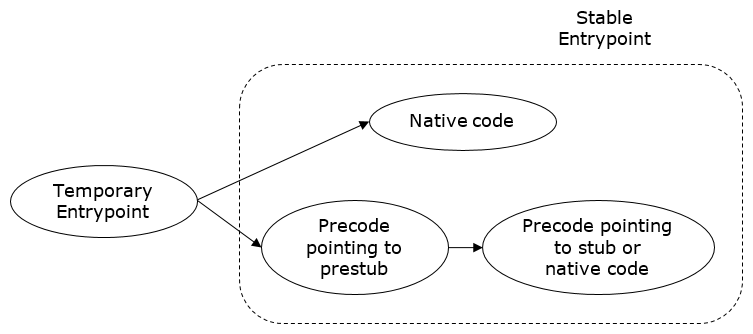
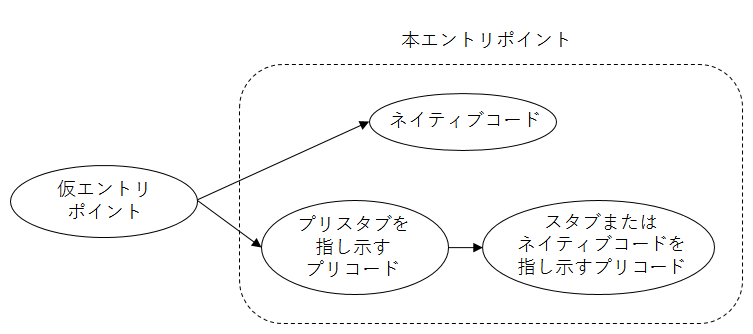
Translate method-descriptor.md.

diff --git a/botr/method-descriptor.md b/botr/method-descriptor.md
@@ -1,0 +1,348 @@
+メソッド記述子
+=================
+
+（これは https://github.com/dotnet/coreclr/blob/master/Documentation/botr/method-descriptor.md の日本語訳です。対象rev.は 09ad260）
+
+Author: Jan Kotas ([@jkotas](https://github.com/jkotas)) - 2006
+
+はじめに
+============
+
+MethodDesc（メソッド記述子、Method Descriptor）はマネージドメソッドの内部表現です。これによっていくつかの目的が達成されます。
+
+- 実行時に使用可能な一意なメソッドハンドルの提供。通常のメソッドでは、MethodDescは&lt;モジュール, メタデータトークン, インスタンシエーション&gt;の組に対する一意なハンドルです。
+- 頻繁に使用される情報（たとえば、メソッドが静的かどうか）を、毎回コストがかかるメタデータからの計算をしないようキャッシュする。
+- メソッドの実行時の状態（たとえば、そのメソッド用のコードが生成済みかどうか）のキャプチャ。
+- そのメソッドのエントリポイントの保持。
+
+設計上の目標と目標でないもの
+--------------------------
+
+### 目標
+
+**パフォーマンス：**MethodDescの設計はサイズを重視して最適化しています。すべてのメソッドについて、1つのMethodDescがあるためです。たとえば、現在の設計では、通常の非ジェネリックメソッドに対するMethodDescは8バイトです。
+
+### 目標でないもの
+
+**機能の豊富さ：**MethodDescはメソッドについての全ての情報をキャッシュしません。あまり使用されない情報（たとえば、メソッドシグネチャ）のためには、元になっているメタデータにアクセスしなければならないはずです。
+
+MethodDescの設計
+====================
+
+MethodDescの種類
+--------------------
+
+MethodDescには複数の種類があります：
+
+**IL**
+
+普通のILメソッドに使用されます。
+
+**Instantiated**
+
+ジェネリックインスタンシエーションを持つ、またはメソッドテーブルに事前アロケートされていない、あまり一般的ではないILメソッドに使用されます。
+
+**FCall**
+
+アンマネージコードで実装された内部メソッド。[MethodImplAttribute(MethodImplOptions.InternalCall)属性で修飾されたメソッド](mscorlib.md)、デリゲートのコンストラクター、そしてtlbimpのコンストラクターです。
+
+**NDirect**
+
+P/Invokeのメソッド。DllImport属性で修飾されたメソッドです。
+
+**EEImpl**
+
+ランタイムによって実装が提供される、デリゲートのメソッド（Invoke、BeginInvoke、EndInvoke）。[ECMA 335 Partition II - Delegates](https://github.com/dotnet/coreclr/blob/master/Documentation/project-docs/dotnet-standards.md)を参照してください。
+
+**Array**
+
+ランタイムによって実装が提供される、配列のメソッド（Get、Set、Address）。[ECMA Partition II – Arrays](https://github.com/dotnet/coreclr/blob/master/Documentation/project-docs/dotnet-standards.md)を参照してください。
+
+**ComInterop**
+
+COMインターフェイスのメソッド。非ジェネリックインターフェイスは既定でCOM相互運用に使用できるので、一般的に、この種類のMethodDescはすべてのインターフェイスメソッドに使用されます。
+
+**Dynamic**
+
+<!-- 訳注：原文ではLKGだがLCGのはず。Stub-as-ILはP/InvokeのILスタブ -->
+元になるメタデータなしで動的に作成されるメソッドです。ILスタブとLCG（Light-weight Code Generation）で生成されます。
+
+実装の代替案
+---------------------------
+
+仮想メソッドと継承は、C++でさまざまなMethodDescを実装する自然な方法と思われます。仮想メソッドでは各MethodDescにvtableポインタが追加されることになり、貴重なメモリ空間が大量に浪費されるでしょう。vtableポインタはx86で4バイトを占有します。その代わりに、仮想化は3ビットに収まるMethodDesc種別による分岐によって実装されます。例：
+
+	DWORD MethodDesc::GetAttrs()
+	{
+	    if (IsArray())
+	        return ((ArrayMethodDesc\*)this)->GetAttrs();
+
+	    if (IsDynamic())
+	        return ((DynamicMethodDesc\*)this)->GetAttrs();
+
+	    return GetMDImport()->GetMethodDefProps(GetMemberDef());
+	}
+
+メソッドスロット（method slot）
+------------
+
+それぞれのMethodDescはスロットを持ち、スロットにはメソッドのエントリポイントが含まれます。全てのメソッドについて、スロットとエントリポイントが存在しなければなりません。たとえ抽象メソッドのように決して実行されることのないメソッドであってもです。エントリポイントとMethodDescの間に1:1の対応付けがあることに依存している場所がランタイムの複数の場所にあるので、この関係性は不変です。
+
+スロットはMethodTableかMethodDesc自身のいずれかにあります。スロットの場所はMethodDescの`mdcHasNonVtableSlot`によって決定されます。
+
+スロットインデックスによる効率的なルックアップが必要なメソッド（たとえば仮想メソッドやジェネリック型のメソッド）については、スロットはMethodTableに保存されます。この場合にエントリポイントを高速にルックアップできるよう、MethodDescはそのスロットインデックスを含みます。
+
+そうでない場合、スロットはMethodDesc自身の一部です。この配置によってデータの局所性が改善され、ワーキングセットが節約されます。同様に、エディットアンドコンティニュー、ジェネリックメソッドのインスタンシエーション、[動的メソッド](https://github.com/dotnet/coreclr/blob/master/src/mscorlib/src/System/Reflection/Emit/DynamicMethod.cs)のように、動的に作成されるMethodDescについて、MethodTableにあらかじめスロットを割り当てておくことができない場合すらあります。
+
+MethodDescチャンク
+-----------------
+
+MethodDescは領域を節約するためにチャンクとして割り当てられます。複数のMethodDescは、同一のMethodTableや同一のメタデータトークンの上位ビットを持つ傾向にあります。MethodDescChunkは、複数のMethodDescの配列の前に、共通の情報を巻き取った形になります。MethodDescは、その配列内での自分自身のインデックスを持ちます。
+
+![図1](../images/methoddesc-fig1.png)
+
+図1 MethodDeskChunkとMethodTable
+
+デバッグ
+---------
+
+MethodDescのデバッグには、以下のSOSコマンドが役立ちます：
+
+- **DumpMD** - MethodDescの内容をダンプします：
+
+		!DumpMD 00912fd8
+		Method Name: My.Main()
+		Class: 009111ec
+		MethodTable: 00912fe8md
+		Token: 06000001
+		Module: 00912c14
+		IsJitted: yes
+		CodeAddr: 00ca0070
+
+- **IP2MD** - 指定されたコードアドレスに対するMethodDescを検索します：
+
+		!ip2md 00ca007c
+		MethodDesc: 00912fd8
+		Method Name: My.Main()
+		Class: 009111ec
+		MethodTable: 00912fe8md
+		Token: 06000001
+		Module: 00912c14
+		IsJitted: yes
+		CodeAddr: 00ca0070
+
+- **Name2EE** - 指定されたメソッド名に対するMethodDescを検索します：
+
+		!name2ee hello.exe My.Main
+		Module: 00912c14 (hello.exe)
+		Token: 0x06000001
+		MethodDesc: 00912fd8
+		Name: My.Main()
+		JITTED Code Address: 00ca0070
+
+- **Token2EE** - 指定されたトークンに対するMethodDescを検索します（複雑な名前を持つメソッドに対するMethodDescの検索に役立ちます）：
+
+		!token2ee hello.exe 0x06000001
+		Module: 00912c14 (hello.exe)
+		Token: 0x06000001
+		MethodDesc: 00912fd
+		8Name: My.Main()
+		JITTED Code Address: 00ca0070
+
+- **DumpMT** -MD - 指定されたMethodTableにある全てのMethodDescをダンプします：
+
+		!DumpMT -MD 0x00912fe8
+		...
+		MethodDesc Table
+		   Entry MethodDesc      JIT Name
+		79354bec   7913bd48   PreJIT System.Object.ToString()
+		793539c0   7913bd50   PreJIT System.Object.Equals(System.Object)
+		793539b0   7913bd68   PreJIT System.Object.GetHashCode()
+		7934a4c0   7913bd70   PreJIT System.Object.Finalize()
+		00ca0070   00912fd8      JIT My.Main()
+		0091303c   00912fe0     NONE My..ctor()
+
+デバッグビルドでは、MethodDescにメソッドの名前とシグネチャのフィールドがあります。これはランタイムの状態がひどく壊れていて、SOS拡張が動作しない場合のデバッグに役立ちます。
+
+プリコード（precode）
+=======
+
+プリコードは、仮エントリポイントの実装と、スタブに対する効率的なラッパーの実装に使用される小さなコード片です。プリコードはこれら2つのケース用のニッチなコードジェネレーターであり、可能な限り最も効率的なコードを生成します。理想的な世界であれば、ランタイムによって動的に生成される全てのネイティブコードはJITによって生成されることでしょう。ただし、これら2つのシナリオに固有の要件があり、そのようにすることはできません。基本的なx86のプリコードは次のようなものです：
+
+
+	mov eax,pMethodDesc // MethodDescをスクラッチレジスタに読み込む
+	jmp target          // ターゲットにジャンプする
+
+**効率的なスタブラッパー：**特定のメソッド（P/Invoke、デリゲート呼び出し、多次元配列のゲッターとセッターなど）は、一般的には手書きのアセンブリスタブとして、ランタイムによって提供されます。プリコードは複数の呼び出し元に対して同時対応するために、スタブの上に空間効率の良いラッパーを提供します。
+
+スタブのワーカーコードはプリコード片によってラップされます。このプリコード片は、MethodDescに対応付けることができ、さらにこのワーカーコードにジャンプするものです。このようにして、スタブのワーカーコードを複数のメソッドで共有できます。これは、P/Invokeのマーシャリングスタブを実装するために使用される重要な最適化です。さらに、これはMethodDescとエントリポイントの間に1:1の対応付けを作成し、これにより単純かつ効率的な低レベルシステムを達成します。
+
+**仮エントリポイント（temporary entry points）：**メソッドは、自身がJITコンパイルされる前にそのエントリポイントを提供し、JITされるコードが呼び出し先のアドレスを持てるようにしなければなりません。これらの仮エントリポイントはプリコードによって提供されます。これは、特別な形態のスタブラッパーです。
+
+この技術は、JIT処理に対する怠惰手法であり、空間的および時間的なパフォーマンス最適化を提供します。そうしないと、メソッドの過渡的なクロージャを、実行前にJITしておく必要が生じるでしょう。対象のコード分岐（たとえばif文）の依存先のみJITする必要があることから、過渡的なクロージャは無駄なものになるでしょう。
+
+それぞれの仮エントリポイントは、一般的なメソッドの本体よりもはるかに小さなものです。仮エントリポイントは多数存在するので、パフォーマンスを犠牲にしてでも、小さなコードにする必要があります。仮エントリポイントは、メソッド用の実際のコードが生成される前に一度だけ実行されます。
+
+仮エントリポイントのターゲットはPreStub（事前スタブ）で、これはメソッドのJITコンパイルを起動する特殊なスタブです。これは、仮エントリポイントを本エントリポイント（stable entry point）で原子的に置き換えます。本エントリポイントはメソッドの生存期間中に渡って一定です。この不変性はスレッドセーフティを保証するために必要となります。メソッドスロットが常にロックなしで取得されるためです。
+
+**本エントリポイント**はネイティブコードかプリコードのいずれかになります。**ネイティブコード**はJITコンパイル済みコードか、NGenイメージに保存されたコードのいずれかです。実際にはネイティブコードのことを指してJITコンパイル済みコードということがよくあります。
+
+仮エントリポイントはNGenイメージに決して保存されません。NGenイメージにある全てのエントリポイントは、決して変更されない本エントリポイントです。これは、プライベートワーキングセットを削減する重要な最適化です。
+
+![図2](../images/methoddesc-fig2.png)
+
+図2 エントリポイントの状態図
+
+<!-- 訳注：fixupはNGenで特殊な意味を持っていそうなのでカタカナしにしてある -->
+メソッドは、実際のメソッド本体が実行される前に何かを行う必要がある場合、ネイティブコードとプリコードの両方を持つことができます。一般的に、この状況はNGenイメージのフィックスアップ（fixup）中に発生します。この場合、ネイティブコードは省略可能なMethodDescのスロットです。これはコストのかからない統一的な方法でメソッドのネイティブコードをルックアップするのに必要です。
+
+![図3](../images/methoddesc-fig3.png)
+
+図3 最も複雑なケースでのプリコードとスタブとネイティブコード
+
+単一回呼び出し可能エントリポイントと複数回呼び出し可能エントリポイント
+-----------------------------------------------
+
+エントリポイントはメソッドを呼び出すために必要です。MethodDescは、その状況下で最も効率的にエントリポイントを取得するためのロジックをカプセル化するメソッドを公開します。鍵となる違いは、そのエントリポイントが、対象のメソッドをただ一度だけ呼び出すために使用されるのか、またはそのメソッドを複数回呼び出すために使用されるのかです。
+
+たとえば、呼び出しのたびに事前スタブを経由することになるため、複数回メソッドを呼び出すのに仮エントリポイントを使用するのはよくない考え方でしょう。それに対して、ただ一度だけのメソッド呼び出しで仮エントリポイントを使うのは問題ありません。
+
+The methods to get callable entry points from MethodDesc are:
+MethodDescにある、呼び出し可能エントリポイント取得メソッドは次のとおりです。
+
+- MethodDesc::GetSingleCallableAddrOfCode
+- MethodDesc::GetMultiCallableAddrOfCode
+- MethodDesc::GetSingleCallableAddrOfVirtualizedCode
+- MethodDesc::GetMultiCallableAddrOfVirtualizedCode
+
+プリコードの型
+----------------
+
+プリコードには複数の専用型があります。
+
+プリコードの型は命令列からコストをかけることなく計算可能でなければなりません。x86とx64では、プリコードの型は定数オフセットにある1バイトをフェッチすることで計算されます。言うまでもありませんが、これはさまざまなプリコード型を実装するにあたって、その命令列に制限があるということを意味します。
+
+**StubPrecode**
+
+StubPrecodeは基本的なプリコード型です。スクラッチレジスタにMethodDescを読み込み、ジャンプします。プリコードが動作するには、この型が実装されていなければなりません。他の専用プリコード型が使用できない場合、フォールバックとして使用されるからです。
+
+その他全ての型は、プラットフォーム固有ファイルがHAS\_XXX\_PRECODE定義によって有効にする、オプションの最適化です。
+
+x86のStubPrecodeは次のようになります：
+
+	mov eax,pMethodDesc
+	mov ebp,ebp // プリコードの型をマークするダミー命令
+	jmp target
+
+「target」は、最初は事前スタブを指し示します。そして、最終的なターゲットを指し示すようにパッチ処理されます。最終的なターゲット（スタブまたはネイティブコード）は、eax内のMethodDescを使っても使わなくても構いません。スタブは頻繁にMethodDescを使用し、ネイティブコードはMethodDescを使用しません。
+
+**FixupPrecode**
+
+FixupPrecodeは、最終的なターゲットがスクラッチレジスタ内にMethodDescを必要としない場合に使用されます<sup>2</sup>。FixupPrecodeはスクラッチレジスタへのMethodDescの読み込みを避けることで、数サイクルを節約します。
+
+FixupPrecodeのもっとも一般的な使用は、NGenイメージにおけるメソッドのフィックスアップです。
+
+FixupPrecodeのx86における初期状態は次のとおりです：
+
+	call PrecodeFixupThunk // この呼び出しは決して戻ってきません。
+	                       // PrecodeFixupThunkはリターンアドレスをポップし、
+	                       // そのアドレスを使用してこの後ろにあるpMethodDescをフェッチして、
+	                       // JITコンパイルされなければならないメソッドが何かを判別します。
+	pop esi // プリコードの型をマークするダミー命令
+	dword pMethodDesc
+
+一度パッチ処理されると、最終的なターゲットを指し示します：
+
+	jmp target
+	pop edi
+	dword pMethodDesc
+
+<sup>2</sup> スクラッチレジスタにMethodDescを渡す行為は、**MethodDesc呼び出し規約**と言われることがあります。
+
+**FixupPrecodeチャンク**
+
+FixupPrecodeチャンクは複数のFixupPrecodeの空間効率の良い表現です。領域を共有するために、複数のFixupPrecodeから類似のMethodDescポインターを巻き取るという点で、MethodDescChunkの考え方を真似ています。
+
+FixupPrecodeは領域を節約し、プリコードのコード密度を改善します。FixupPrecodeチャンクによるコード密度の改善は、x64での大規模サーバーのシナリオで1%から2%になりました。
+
+FixupPrecodeチャンクはx86で次のようになります：
+
+	jmp Target2
+	pop edi // プリコードの型をマークするダミー命令
+	db MethodDescChunkIndex
+	db 2 (PrecodeChunkIndex)
+
+	jmp Target1
+	pop edi
+	db MethodDescChunkIndex
+	db 1 (PrecodeChunkIndex)
+
+	jmp Target0
+	pop edi
+	db MethodDescChunkIndex
+	db 0 (PrecodeChunkIndex)
+
+	dw pMethodDescBase
+
+1つのFixupPrecodeチャンクは1つのMethodDescChunkに対応します。ただし、FixupPrecodeチャンク内のFixupPrecodeと、MethodDescChunk内のMethodDescの間に1:1の対応付けはありません。それぞれのFixupPrecodeは所属するメソッドのインデックスを持ちます。これによって、必要とするメソッドに対してのみFixupPrecodeチャンクにFixupPrecodeを割り当てられるようにできます。
+
+**コンパクトエントリポイント（compact entry point）**
+
+コンパクトエントリポイントは仮エントリポイントの空間効率の良い実装です。
+
+StubPrecodeまたはFixupPrecodeを使用して実装される仮エントリポイントは、実際のコードを指し示すようにパッチ処理できます。JITコンパイルされるコードは仮エントリポイントを直接呼び出すことができます。この場合、仮エントリポイントは複数回呼び出し可能エントリポイントにできます。
+
+コンパクトエントリポイントは実際のコードを指し示すようにパッチ処理することはできません。JITされるコードはコンパクトエントリポイントを直接呼び出すことはできません。コンパクトエントリポイントへの呼び出しは、テーブル内のスロット（FuncPtrStub）経由の間接呼び出しになり、最終的に実際のエントリポイントを指し示すようにテーブルがパッチ処理されます。この場合、複数回呼び出し可能エントリポイントの要求では、StubPrecodeまたはFixupPrecodeがオンデマンドに割り当てられます。
+
+生の速度差は、対象のプラットフォームにおける、コンパクトエントリポイントにおける間接呼び出しのコストと、直接呼出しと直接ジャンプ1回ずつのコストの間の差になります。後者の方が、（2005年時点で）ハードウェアによってより上手く事前予測できるために、大規模サーバーシナリオで数パーセント高速になっていました。これは、現在（2015年）のハードウェアでは常に当てはまるとは限りません。
+
+コンパクトエントリポイントは歴史的経緯によりx86でのみ実装されています。複雑さが増すこと、空間効率と速度のトレードオフ、およびハードウェアの進歩により、コンパクトエントリポイントはその他のプラットフォームでは妥当なものとなりませんでした。
+
+コンパクトエントリポイントはx86において次のようになります。
+
+	entrypoint0:
+	 mov al,0
+	 jmp short Dispatch
+
+	entrypoint1:
+	 mov al,1
+	 jmp short Dispatch
+
+	entrypoint2:
+	 mov al,2
+	 jmp short Dispatch
+
+	Dispatch:
+	 movzx eax,al
+	 shl eax, 3
+	 add eax, pBaseMD
+	 jmp PreStub
+
+仮エントリポイントの割り当ては、常に、利用可能な選択肢から最も小さな仮エントリポイントを選ぼうとします。たとえば、x86において、単一のコンパクトエントリポイントは単一のStubPrecodeよりも大きくなります。この場合、StubPrecodeの方がコンパクトエントリポイントよりも優先されます。本エントリポイント用のプリコードの割り当ては、一致する型のものが存在するならば、割り当て済みの仮エントリポイントのプリコードを再利用しようとします。
+
+**ThisPtrRetBufPrecode**
+
+ThisPtrRetBufPrecodeは、値型を返すオープンインスタンスデリゲート用に、戻り値バッファとthisポインタを切り替えるために使用されます。MyValueType Bar(Foo x)の呼び出し規約を、MyValueType Foo::Bar()の呼び出し規約に変換するために使用されます。
+
+このプリコードは、常に、実際のメソッドのエントリポイントのラッパーとしてオンデマンドに割り当てられ、テーブル（FuncPtrStubs）に保存されます。
+
+ThisPtrRetBufPrecodeは次のようになります：
+
+	mov eax,ecx
+	mov ecx,edx
+	mov edx,eax
+	nop
+	jmp entrypoint
+	dw pMethodDesc
+
+**NDirectImportPrecode**
+
+NDirectImportPrecodeはアンマネージドP/Invokeターゲットの怠惰バインディングに使用されます。このプリコードは利便性を高め、プラットフォーム固有の定型繰り返しコードの量を減らすためにあります。
+
+それぞれのNDirectMethodDescは、通常のプリコードに加え、NDirectImportPrecodeを持ちます。
+
+NDirectImportPrecodeはx86において次のようになります：
+
+	mov eax,pMethodDesc
+	mov eax,eax // プリコードの型をマークするダミー命令
+	jmp NDirectImportThunk // pMethodDesc用のP/Invokeターゲットを怠惰に読み込みます
